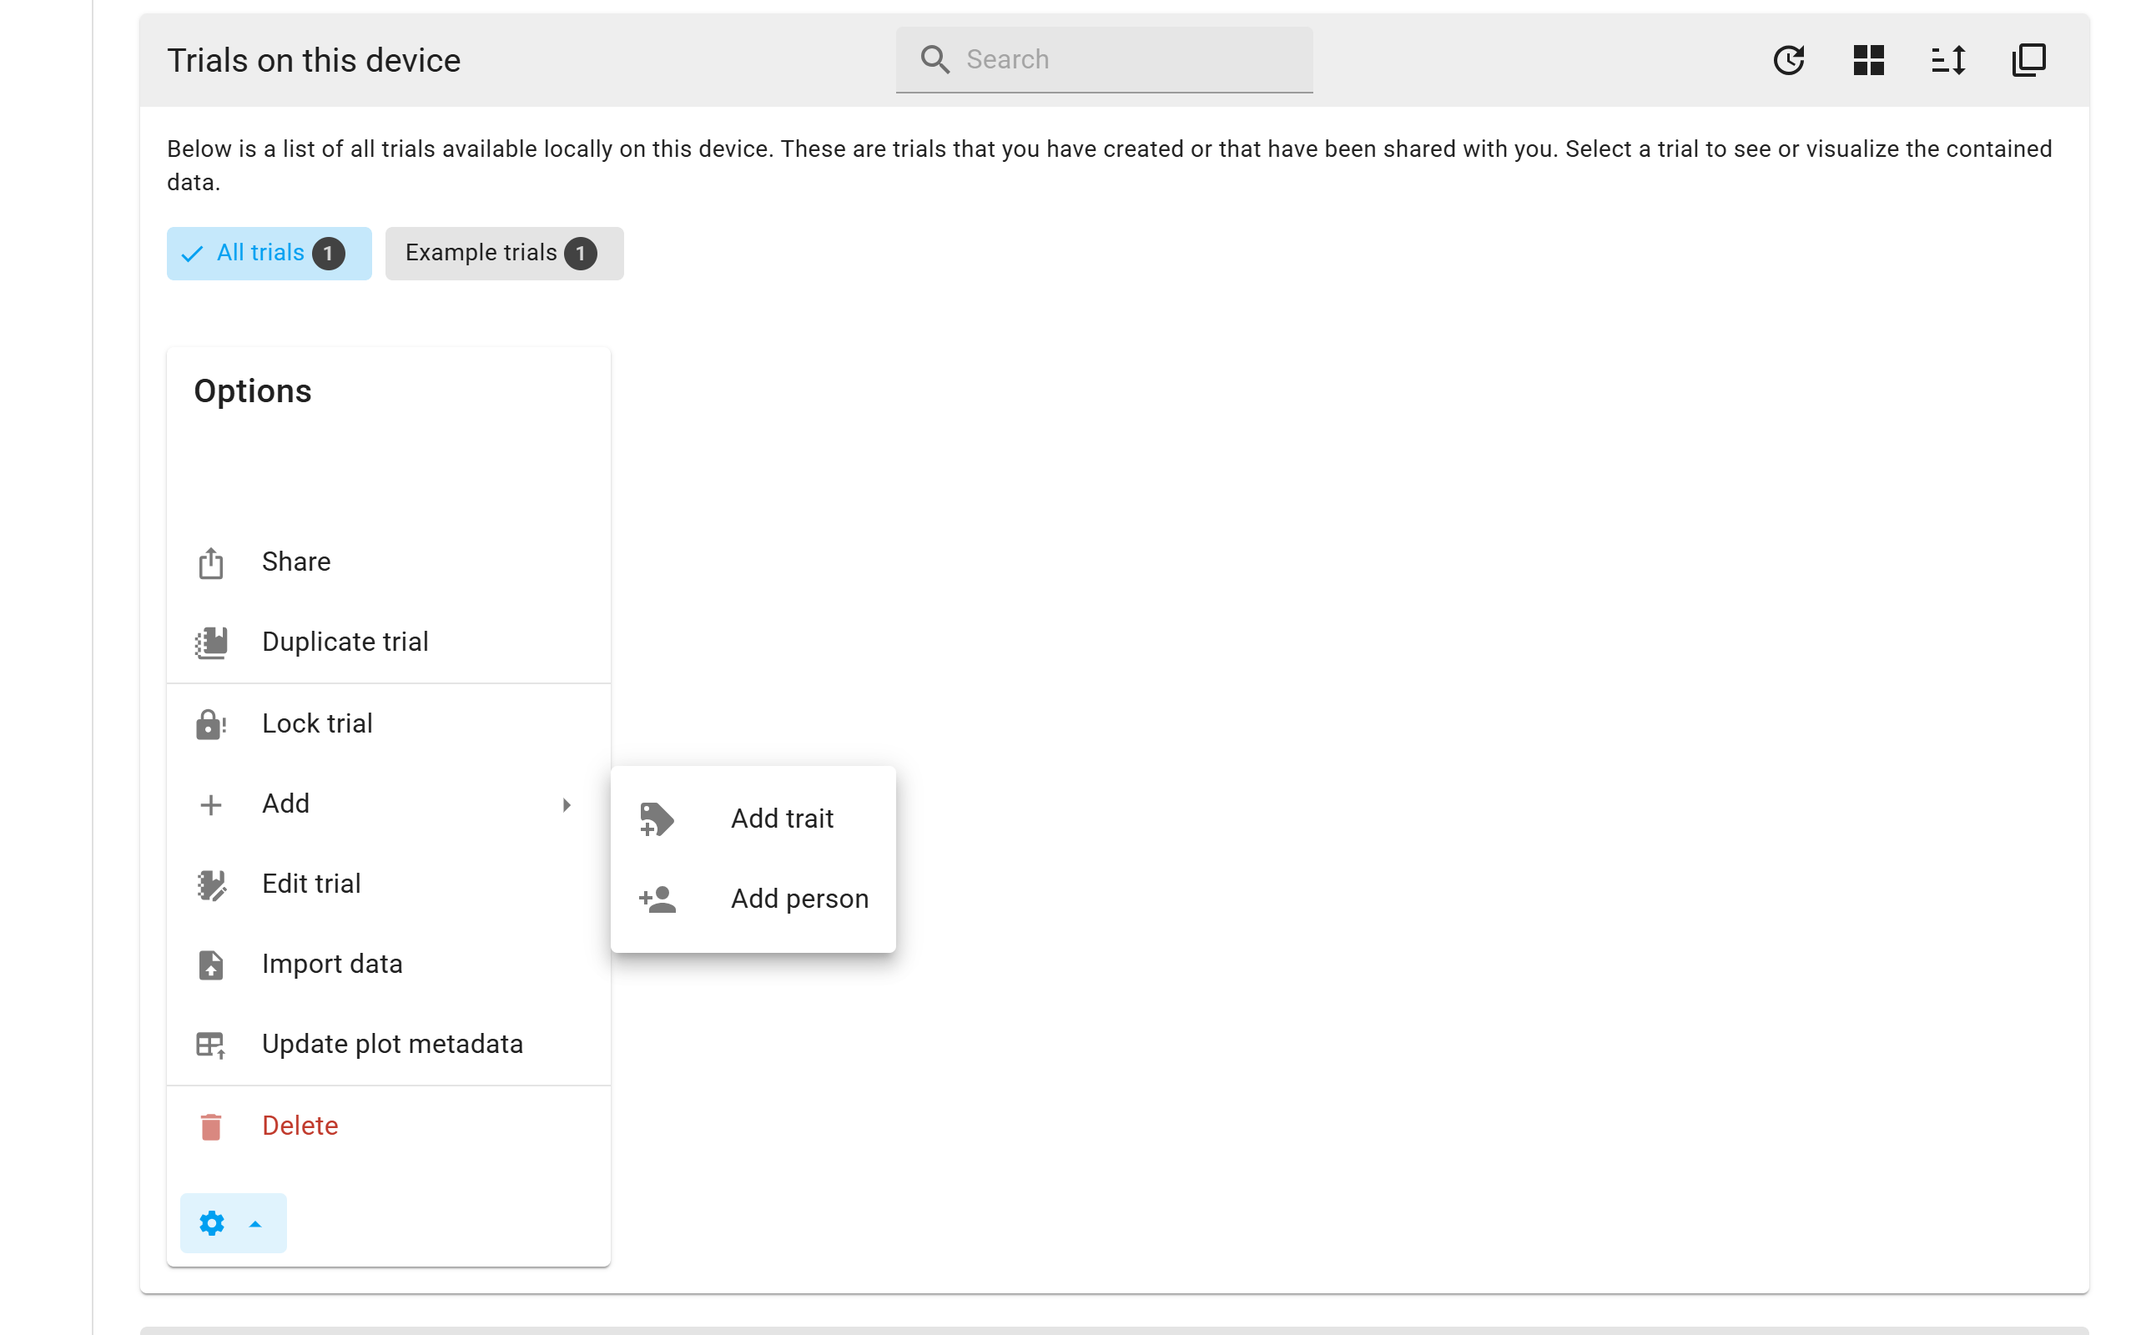
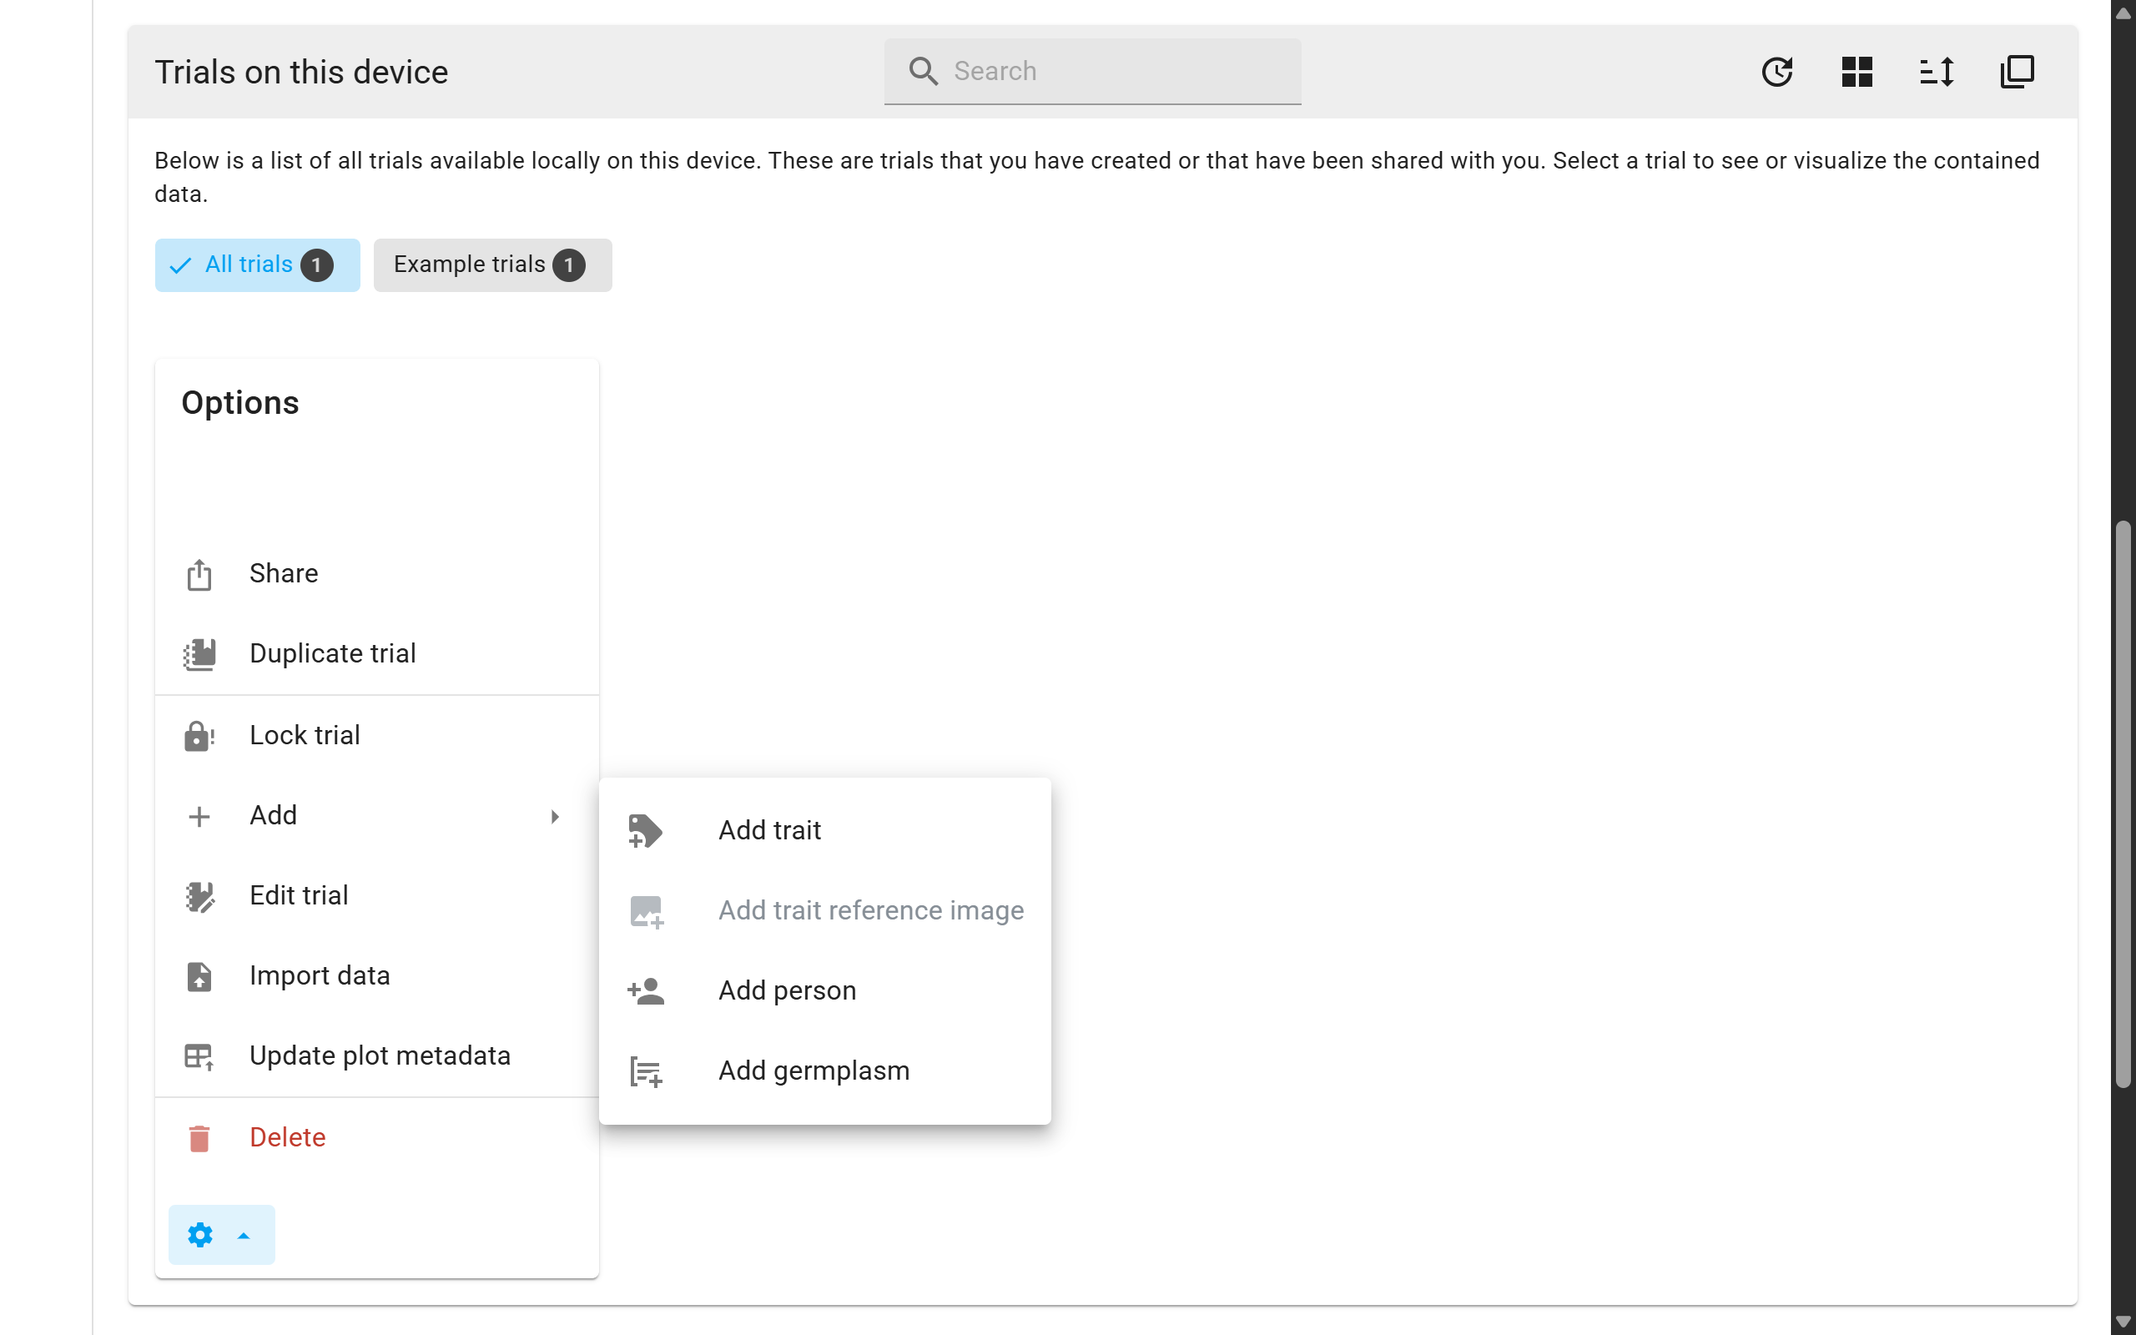
- CHG: Updated more documentation. - CHG: Handle 404 errors on trait reference image deletion. - CHG: Compress trait reference images and restrict to 1080x1080 max.

diff --git a/src/components/modals/AddTraitReferenceImageModal.vue b/src/components/modals/AddTraitReferenceImageModal.vue
@@ -46,7 +46,7 @@
                         v-if="trait.hasImage === true && trait.imageUrl"
                       />
                       <v-card-title>
-                        <div class="d-flex justify-space-between align-center">
+                        <div class="d-flex justify-space-between align-center flex-wrap">
                           <span>{{ trait.name }}</span>
                           <div>
                             <v-chip label size="small" color="primary" :prepend-icon="dts.find(dt => dt.value === trait.dataType)?.icon" :text="dts.find(dt => dt.value === trait.dataType)?.shortTitle" />
@@ -111,7 +111,7 @@
                         </div>
                       </v-card-text>
                       <v-card-actions>
-                        <v-btn variant="tonal" :text="$t('buttonUpload')" color="primary" :prepend-icon="mdiImagePlus" @click.stop="showUploadForTrait(trait)" />
+                        <v-btn variant="tonal" :text="$t(trait.imageUrl ? 'buttonReplace' : 'buttonUpload')" color="primary" :prepend-icon="trait.imageUrl ? mdiImageRefresh : mdiImagePlus" @click.stop="showUploadForTrait(trait)" />
                         <v-spacer />
                         <v-btn variant="tonal" :text="$t('buttonDelete')" color="error" :prepend-icon="mdiImageRemove" @click.stop="deleteImageForTrait(trait)" v-if="trait.imageUrl" />
                       </v-card-actions>
@@ -141,7 +141,7 @@
   import type { TraitPlus, TrialPlus } from '@/plugins/types/client'
   import { TimeframeType } from '@/plugins/types/gridscore'
   import { getPriorityShareCode, getServerUrl } from '@/plugins/util'
-  import { mdiAlert, mdiCalendarEnd, mdiCalendarStart, mdiClose, mdiImagePlus, mdiImageRemove, mdiMinusCircle, mdiSetSplit, mdiTagText, mdiTimelinePlus, mdiTimelineRemove } from '@mdi/js'
+  import { mdiAlert, mdiCalendarEnd, mdiCalendarStart, mdiClose, mdiImagePlus, mdiImageRefresh, mdiImageRemove, mdiMinusCircle, mdiSetSplit, mdiTagText, mdiTimelinePlus, mdiTimelineRemove } from '@mdi/js'
   import { useI18n } from 'vue-i18n'
   import UploadTraitImageModal from '@/components/modals/UploadTraitImageModal.vue'
   import { updateTrialTraitImage } from '@/plugins/idb'
@@ -241,9 +241,33 @@
           match.imageUrl = undefined
         }
       })
+      .then(refreshTrialInfo)
+      .catch(async e => {
+        console.log(e, e.status)
+        if (e.status === 404) {
+          const match = compProps.trial.traits.find(tt => tt.id === t.id)
+
+          if (match) {
+            match.hasImage = false
+            match.imageUrl = undefined
+          }
+          // Delete then save to idb.
+          updateTrialTraitImage(compProps.trial.localId || '', t, false)
+            .then(refreshTrialInfo)
+        }
+      })
       .finally(() => {
         emitter.emit('show-loading', false)
       })
+  }
+
+  async function refreshTrialInfo () {
+    emitter.emit('trials-updated')
+    emitter.emit('trial-selected')
+
+    await store.setSelectedTrial(compProps.trial.localId || '')
+
+    imageId.value = getId()
   }
 
   function updateTrait () {
@@ -263,14 +287,7 @@
       }
 
       updateTrialTraitImage(compProps.trial.localId || '', t, true)
-        .then(async () => {
-          emitter.emit('trials-updated')
-          emitter.emit('trial-selected')
-
-          await store.setSelectedTrial(compProps.trial.localId || '')
-
-          imageId.value = getId()
-        })
+        .then(refreshTrialInfo)
     }
   }
 

diff --git a/src/components/trait/TraitSection.vue b/src/components/trait/TraitSection.vue
@@ -10,24 +10,11 @@
             <span class="text-h6" :style="{ color: trait.color }">{{ trait.name }}</span>
             <template v-if="showDetails">
               <v-chip size="small" label :text="$t((shortTitle ? dataTypeMap[trait.dataType]?.shortTitle : dataTypeMap[trait.dataType]?.title) || '')" :prepend-icon="dataTypeMap[trait.dataType]?.icon" />
-              <v-menu v-if="trait.hasImage && imageUrl" location="bottom">
-                <template #activator="{ props }">
-                  <v-chip
-                    v-bind="props"
-                    label
-                    size="small"
-                    v-tooltip:top="$t('tooltipTraitImageClickToView')"
-                  >
-                    <v-icon :icon="mdiImageSearch" />
-                  </v-chip>
-                </template>
 
-                <v-card>
-                  <v-card-text>
-                    <img :src="imageUrl" class="d-inline-block reference-image" crossorigin="anonymous" @click="imageFullscreen = true">
-                  </v-card-text>
-                </v-card>
-              </v-menu>
+              <v-chip label size="small" v-tooltip:top="$t('tooltipTraitImageClickToView')" @click="referenceImageSheetVisible = true">
+                <v-icon :icon="mdiImageSearch" />
+              </v-chip>
+
               <v-chip size="small" label v-tooltip:top="$t(trait.allowRepeats ? 'tooltipTraitAllowRepeatsTrue' : 'tooltipTraitAllowRepeatsFalse')">
                 <v-icon :icon="trait.allowRepeats ? mdiRepeat : mdiRepeatOff" />
               </v-chip>
@@ -54,26 +41,17 @@
       </template>
     </v-list-item>
 
-    <v-dialog
-      v-model="imageFullscreen"
-      transition="dialog-bottom-transition"
-      fullscreen
+    <v-bottom-sheet
+      v-model="referenceImageSheetVisible"
+      max-height="90vh"
       v-if="trait.hasImage && imageUrl"
-      @click="imageFullscreen = false"
     >
       <v-card>
-        <v-toolbar>
-          <v-btn
-            :icon="mdiClose"
-            @click="imageFullscreen = false"
-          />
-        </v-toolbar>
-
-        <v-card-text>
-          <img :src="imageUrl" class="d-inline-block reference-image-fullscreen" crossorigin="anonymous">
-        </v-card-text>
+        <template #text>
+          <v-img :src="imageUrl" crossorigin="anonymous" @click="referenceImageSheetVisible = false" />
+        </template>
       </v-card>
-    </v-dialog>
+    </v-bottom-sheet>
   </div>
 </template>
 
@@ -86,7 +64,7 @@
 
   const store = coreStore()
 
-  const imageFullscreen = ref(false)
+  const referenceImageSheetVisible = ref(false)
 
   export interface TraitSectionProps {
     trial?: TrialPlus

diff --git a/src/components/modals/UploadTraitImageModal.vue b/src/components/modals/UploadTraitImageModal.vue
@@ -7,7 +7,7 @@
         <v-file-input
           v-model="inputFile"
           :label="$t('formLabelImageFile')"
-          accept="image/*"
+          accept="image/jpeg,image/png"
           ref="imageInput"
         />
 
@@ -32,6 +32,7 @@
   import { updateTraitImageCache } from '@/plugins/traitcache'
   import type { TraitPlus, TrialPlus } from '@/plugins/types/client'
   import { mdiAlert } from '@mdi/js'
+  import Compressor from 'compressorjs'
 
   import emitter from 'tiny-emitter/instance'
   import { useI18n } from 'vue-i18n'
@@ -61,8 +62,21 @@
     }
 
     if (newValue) {
-      // Convert to base64 for displaying
-      mediaData.value = URL.createObjectURL(newValue)
+      new Compressor(newValue, {
+        quality: 0.6,
+        maxWidth: 1080,
+        maxHeight: 1080,
+        resize: 'contain',
+        // The compression process is asynchronous,
+        // which means you have to access the `result` in the `success` hook function.
+        success(result) {
+          // Convert to base64 for displaying
+          mediaData.value = URL.createObjectURL(result)
+        },
+        error(err) {
+          console.log(err.message)
+        },
+      })
     } else {
       mediaData.value = undefined
     }

diff --git a/src/plugins/idb.ts b/src/plugins/idb.ts
@@ -371,35 +371,7 @@ async function updateTrialTraitImage (localId: string, trait: TraitPlus, hasImag
 
     if (match) {
       match.hasImage = hasImage
-    }
-
-    if (logTransactions(trial)) {
-      const transaction: Transaction = (await db.get('transactions', localId)) || getEmptyTransaction(localId)
-
-      if (!transaction.traitChangeTransactions) {
-        transaction.traitChangeTransactions = []
-      }
-
-      const transMatch = transaction.traitChangeTransactions.find(tr => tr.id === trait.id)
-
-      if (transMatch) {
-        // If there is an old transaction entry, update it
-        transMatch.hasImage = hasImage
-        transMatch.imageUrl = trait.imageUrl
-      } else {
-        // Else, add a new one
-        transaction.traitChangeTransactions.push({
-          id: trait.id || '',
-          name: trait.name,
-          description: trait.description,
-          group: trait.group?.name,
-          hasImage,
-          imageUrl: trait.imageUrl,
-          timestamp: new Date().toISOString(),
-        })
-      }
-
-      await db.put('transactions', transaction)
+      match.imageUrl = undefined
     }
 
     await db.put('trials', trial)

diff --git a/src/plugins/api.ts b/src/plugins/api.ts
@@ -370,7 +370,7 @@ function postTraitImage (remoteConfig: RemoteConfig | undefined, shareCode: stri
 }
 
 function deleteTraitImage (remoteConfig: RemoteConfig | undefined, shareCode: string, traitId: string) {
-  return axiosForm({ baseUrl: remoteConfig ? (remoteConfig.remoteUrl || undefined) : undefined, remoteToken: remoteConfig ? remoteConfig.token : undefined, url: `trait/${shareCode}/${traitId}/img`, method: 'delete' })
+  return axiosCall({ baseUrl: remoteConfig ? (remoteConfig.remoteUrl || undefined) : undefined, remoteToken: remoteConfig ? remoteConfig.token : undefined, url: `trait/${shareCode}/${traitId}/img`, method: 'delete' })
 }
 
 export {

diff --git a/docs/trait-reference-images.md b/docs/trait-reference-images.md
@@ -1,0 +1,47 @@
+---
+title: GridScore NEXT Legacy data migration
+---
+
+<a href="index.html" class="btn btn-dark">Home</a>
+
+# Trait reference images
+
+When scoring traits it can often be helpful to have a reference image to compare the phenotype of a plant to. Below are some examples:
+
+The first example shows different values for a selection of categorical traits with an exemplar schematic of the corresponding phenotypic value.
+
+<img src="https://labassociates.com/wp-content/uploads/2022/03/Phenotype-Mendel.png" style="max-width: 100%;" alt="Add reference image to trial">
+
+<i>Image credit: "[Mendel's experiments: Figure 3](http://cnx.org/contents/24nI-KJ8@24.18:NjE8d7G4@7/Mendels-Experiments)," by Robert Bear et al., OpenStax,&nbsp; [CC BY 4.0](https://creativecommons.org/licenses/by/4.0/)</i>
+
+Another example would be visual reference images for cereal growth stages.
+
+<img src="https://www.researchgate.net/publication/328808159/figure/fig1/AS:11431281212297986@1702574925520/Modelled-phenology-stages-of-winter-barley-and-their-corresponding-BBCH-stages-The.tif" alt="Modelled phenology stages of winter barley and their corresponding BBCH stages. The colours are chosen to visually support the phenological development. They do not correspond to any spectral characteristics."/>
+
+<i>Image credit: [Structural and Spectral Analysis of Cereal Canopy Reflectance and Reflectance Anisotropy - Scientific Figure on ResearchGate](https://www.researchgate.net/figure/Modelled-phenology-stages-of-winter-barley-and-their-corresponding-BBCH-stages-The_fig1_328808159).</i>
+
+Before adding reference images for traits to GridScore, the trial in question has to have been shared before. If it hasn't been shared yet, GridScore will disable the option to add reference images. The reason for this is simple: reference images are stored on the GridScore server and associated with the trial identifier to make them available to every trial participant.
+
+To actually add a reference image to a trait, identify the correct trial from the home screen. Use the options menu (cog icon) show all available actions for this trial. Under `Add` you will find `Add trait reference image`. Selecting this option opens a new window which shows all traits grouped by their group. From here, you can upload one reference image per trait using the `Upload` button at the bottom of the trait card.
+
+<img src="img/reference-image-trial.png" style="max-width: 100%;" alt="Add reference image to trial">
+
+<img src="img/reference-image-trial-add.png" style="max-width: 100%;" alt="Add reference image to trial">
+
+<img src="img/reference-image-trial-modal.png" style="max-width: 100%;" alt="Add reference image to trial">
+
+The window that now opens lets you pick an image file from your local device. The file will be restricted in size to a maximum resolution of 1080 pixels in either dimension. If you are happy with the selection, click on the `Upload` button. This will now send the image to the GridScore server and associate it with the trial and trait. The GridScore client application will also make sure that the image is cached for offline use.
+
+<img src="img/reference-image-trial-modal-img.png" style="max-width: 100%;" alt="Add reference image to trial">
+
+Back on the trial reference image window, a small preview of the image should now be displayed within the trait card.
+
+<img src="img/reference-image-trial-modal-w-img.png" style="max-width: 100%;" alt="Add reference image to trial">
+
+When collecting data for a trait with a reference image, a small image icon will be displayed in the trait heading and, when clicked on, will show the image.
+
+<img src="img/reference-image-input.png" style="max-width: 100%;" alt="Add reference image to trial">
+
+<img src="img/reference-image-preview.png" style="max-width: 100%;" alt="Add reference image to trial">
+
+<a href="index.html" class="btn btn-dark">Home</a>

diff --git a/docs/overview.md b/docs/overview.md
@@ -39,8 +39,11 @@ Once you have created or imported some trials, they will be listed on the front 
 - **Share**: The `Share` option allows you to share the given trial with others or simply another device using QR codes. The mechanism is explained on the dedicated <a href="trial-sharing.html">trial sharing</a> page.
 - **Duplicate trial**: You can duplicate an existing trial. While doing so, you can make modifications to the layout and traits. You can also decide whether you want to copy any existing data across or start with a blank trial. There is a dedicated page explaining the <a href="trial-duplication.html">trial duplication</a> in more detail.
 - **Lock trial**: The trial owner can at any point lock the whole trial to prevent data entry and manipulation. It should be noted that if working on a shared trial, each user/data collector will be able to synchronize one last time before the trial is locked.
-- **Add trait**: Trial owners and editors can add more traits at a later date if they have not been included in the initial trial setup. GridScore shows the exact same trait definition screen as during the trial setup, so you should be familiar with the process.
-- **Add person**: More people can be added to an existing trial if required.
+- **Add**: Options for adding new entries to a trial
+  - **Add trait**: Trial owners and editors can add more traits at a later date if they have not been included in the initial trial setup. GridScore shows the exact same trait definition screen as during the trial setup, so you should be familiar with the process.
+  - **Add trait reference image**
+  - **Add person**: More people can be added to an existing trial if required.
+  - **Add germplasm**: For trials with just a single column (basically lists), GridScore allows adding new germplasm to the bottom of the list. The interface for this is the same as when defining the germplasm for a new trial during the <a href="trial-setup.html">setup</a>.
 - **Edit trial**: The owners of the trial (see <a href="trial-sharing.html"> sharing page</a>) can make certain changes to a trial like changing name and description of the trial and the contained traits as well as adjust trial corner points and visual markers.
 - **Import data**: Sometimes you want to import pre-existing data into GridScore and you can do this right here. There's a <a href="data-import.html">dedicated page</a> to explain this.
 - **Delete**: At any time, you can delete any trial from your local device. Be aware that any unsynchronized changes made to a shared trial will be lost, so synchronize before you delete a trial. This trial will not be deleted from any other device it has been shared with and it will still exist on the GridScore server until it expires.

diff --git a/docs/index.md b/docs/index.md
@@ -43,6 +43,7 @@ There are a few sub-pages that contain specific information about how GridScore 
 - <a href="overview.html">Interface overview</a>
 - <a href="settings.html">Settings</a>
 - <a href="trial-setup.html">Trial setup</a>
+- <a href="trait-reference-images.html">Trait reference images</a>
 - <a href="collecting-data.html">Collecting data</a>
 - <a href="tagging-images.html">Tagging images</a>
 - <a href="trial-sharing.html">Data/Trial sharing</a>
